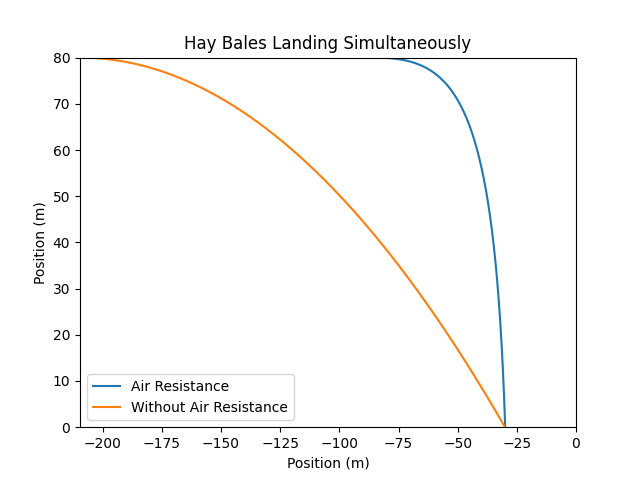
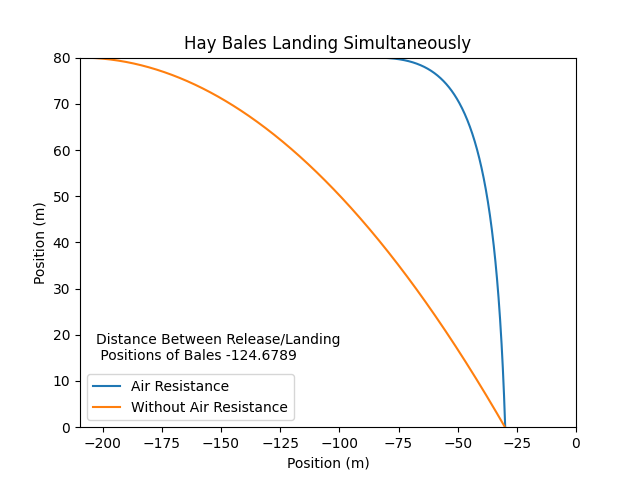
2-55 Complete, adjustments to 2-7 Save Data

Changed region(s): [[0.1562, 0.6875, 0.5312, 0.75]]

diff --git a/Chapter 2/2-55.py b/Chapter 2/2-55.py
@@ -1,0 +1,61 @@
+import matplotlib.pyplot as plt
+import numpy as np
+import math
+import os
+
+Mass = 5
+Angle = 45
+Distance = 142
+InitialVelocity = 54
+Vxi = InitialVelocity / (math.sqrt(2))
+Vyi = Vxi
+print(Vxi)
+
+Directory = os.path.dirname(__file__)
+
+Steps = 1000
+dT = 0.01
+Iterations = 10
+Time = np.zeros((Steps))
+YPosition = np.zeros((Iterations, Steps))
+XPosition = np.zeros((Iterations, Steps))
+YAcceleration = np.zeros((Iterations, Steps))
+XAcceleration = np.zeros((Iterations, Steps))
+YVelocity = np.zeros((Iterations, Steps))
+XVelocity = np.zeros((Iterations, Steps))
+KConstant = np.zeros((Iterations))
+KSteps = 0.02
+Gravity = 10
+
+for i in range(Iterations):
+    Time[0] = 0
+    KConstant[i] = 0.65 - (KSteps * ( i + 1 ))
+    KConstant[i] = round(KConstant[i],2)
+    YPosition[i][0] = 0
+    XPosition[i][0] = 0
+    YVelocity[i][0] = Vyi
+    XVelocity[i][0] = Vxi
+    XAcceleration[i][0] = -KConstant[i] * XVelocity[i][0] / Mass
+    YAcceleration[i][0] = -KConstant[i] * YVelocity[i][0] / Mass - Gravity
+    for j in range(1,Steps):
+        Time[j] = j * dT
+        YPosition[i][j] = YPosition[i][j-1] + YVelocity[i][j-1] * dT
+        YVelocity[i][j] = YVelocity[i][j-1] + YAcceleration[i][j-1] * dT
+        YAcceleration[i][j] = -KConstant[i] * YVelocity[i][0] / Mass - Gravity
+        XPosition[i][j] = XPosition[i][j-1] + XVelocity[i][j-1] * dT
+        XVelocity[i][j] = XVelocity[i][j-1] + XAcceleration[i][j-1] * dT
+        XAcceleration[i][j] = -KConstant[i] * XVelocity[i][0] / Mass
+        if(YPosition[i][j] < 0):
+            print(KConstant[i], XPosition[i][j])
+            break
+
+    plt.plot(XPosition[i], YPosition[i])
+
+plt.axis((0, 200, 0, 100))
+plt.legend(KConstant)
+plt.title('Projectile Motion')
+plt.ylabel('Position (m)')
+plt.xlabel('Position (x)')
+plt.figtext(0.25, 0.7, 'For d = 142, k = 0.57')
+plt.savefig(Directory + '/2-55_ProjectileMotion')
+plt.show()

diff --git a/Chapter 2/2-7.py b/Chapter 2/2-7.py
@@ -69,7 +69,6 @@ for i in range(Steps):
 for i in range(Steps):
     XPosition[i] = XPosition[i] - Offset - 30
 
-print("Distance Between Landing Positions of Bales", Offset+30)
 
 plt.plot(XPosition, YPosition, label = 'Air Resistance')
 plt.plot(XWithoutAirResistance,YWithoutAirResistance, label = 'Without Air Resistance')
@@ -78,5 +77,6 @@ plt.xlabel("Position (m)")
 plt.ylabel("Position (m)")
 plt.title("Hay Bales Landing Simultaneously")
 plt.legend()
+plt.figtext(0.15,0.25,"Distance Between Release/Landing\n Positions of Bales = " + str(round(Offset+30,4)))
 plt.savefig(Directory + '/2-7_Simultaneous_Landing')
 plt.show()
